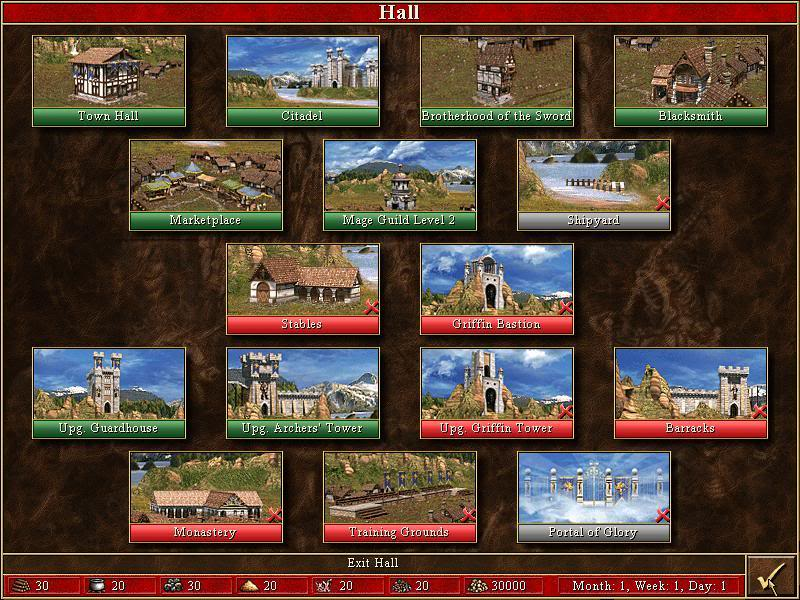
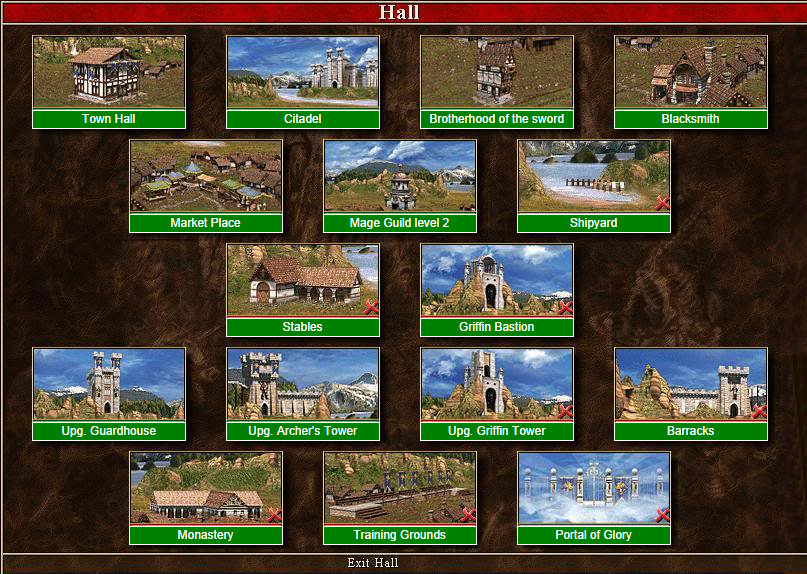
buildings changes

diff --git a/public/css/app.css b/public/css/app.css
@@ -47,7 +47,7 @@ footer {
 }
 .buildingsMenu{
     background: url("../../img/buildings.png");
-    height: 600px;
+    height: 574px;
     width: 808px;
     padding: 0px;
     padding-top: 25px;
@@ -61,6 +61,8 @@ footer {
 .exit{
     color: #ffffff;
     text-align: center;
-    margin-top: 8px;
-    background-color: green;
+    width: 130px;
+    height: 20px;
+    margin: auto;
+    margin-top: 10px;
 }

diff --git a/public/app/buildings/BuildingsCtrl.js b/public/app/buildings/BuildingsCtrl.js
@@ -1,6 +1,8 @@
 'use strict';
 
 app.controller('BuildingsCtrl', ['$scope', '$location', function ($scope, $location) {
-
+    $scope.buyBuilding = function(){
+        alert('doesn\'t work yet');
+    }
 
 }]);
